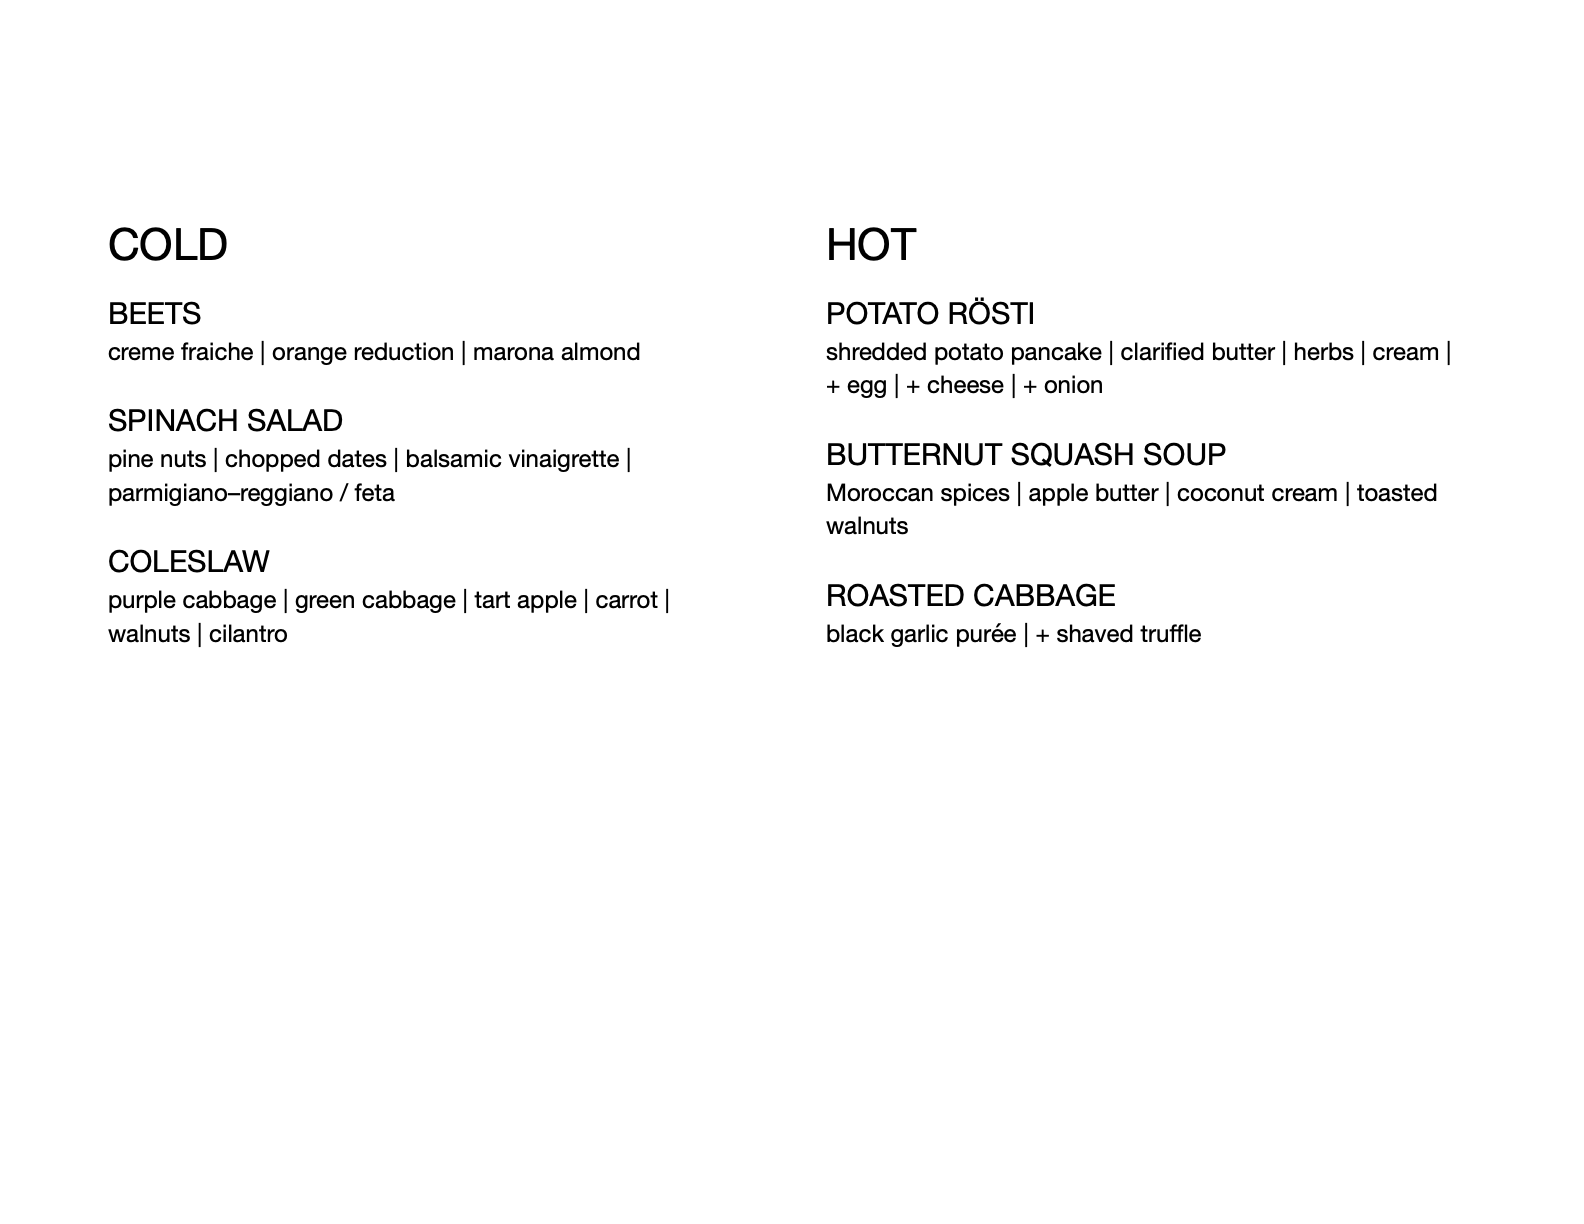
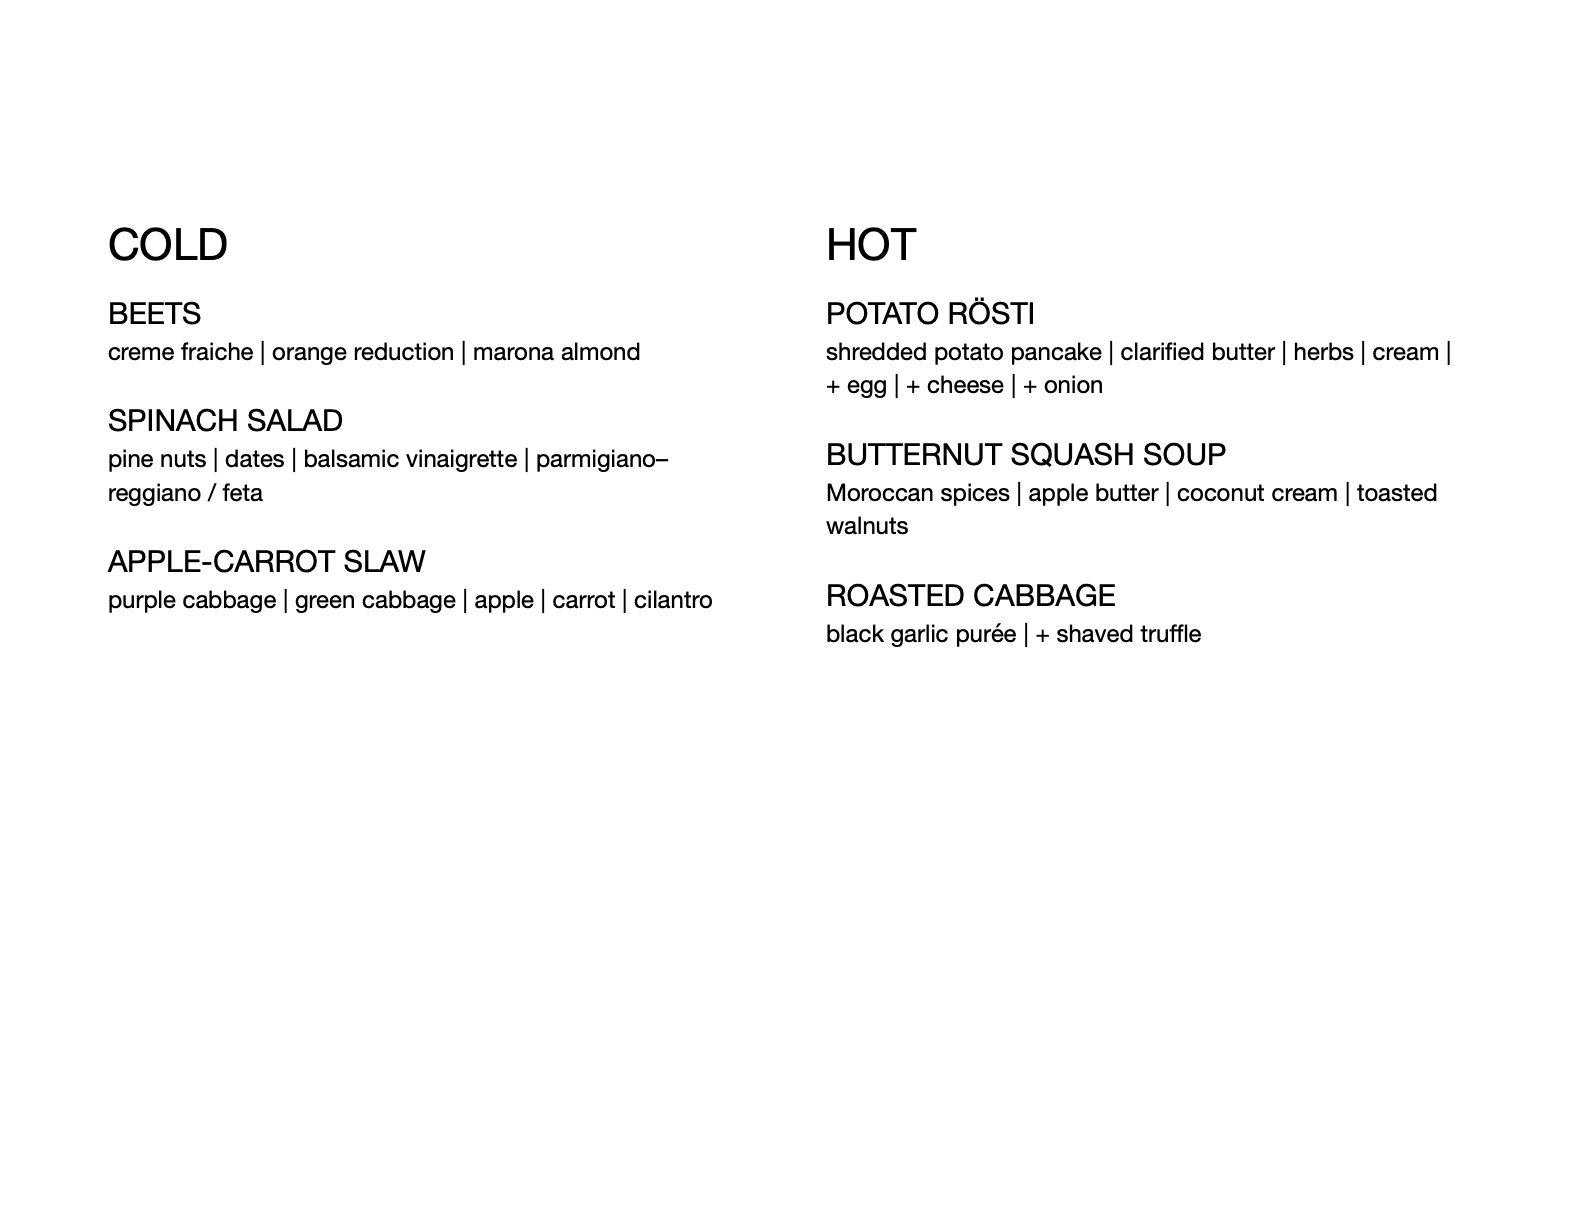
Update copy, color, and menu

Changed region(s): [[0.0619, 0.3725, 0.4021, 0.4657], [0.3093, 0.4657, 0.464, 0.4967], [0.0619, 0.4967, 0.1856, 0.5278]]

diff --git a/src/styles/global.css b/src/styles/global.css
@@ -5,7 +5,7 @@
  */
 
 :root {
-	--accent: #2337ff;
+	--accent: #0066cc;
 	--accent-dark: #000d8a;
 	--black: 15, 18, 25;
 	--gray: 96, 115, 159;
